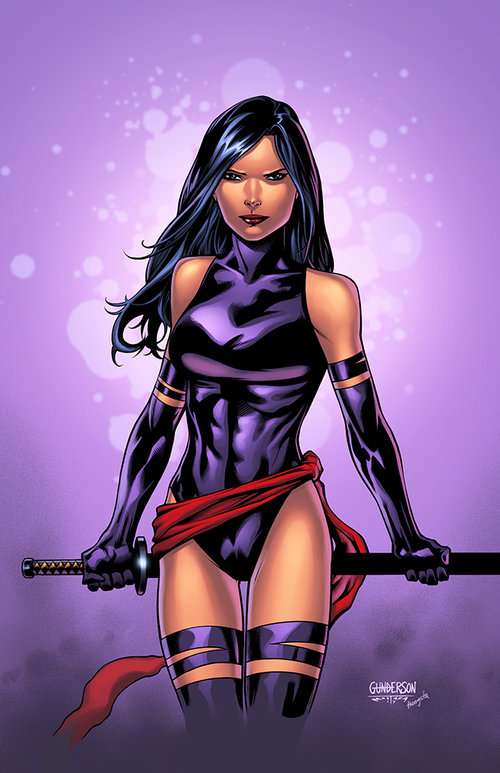
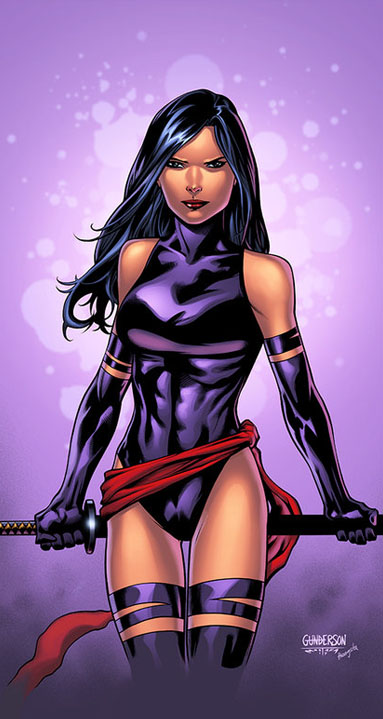
I adjusted the nav and worked more on the cards
I added a class to the navbar so that the nav bar is on top of all my other content in the page, on the Z axis. I photoshopped my photos so that they are all the same size and I adjusted the text in the cards.

diff --git a/Assignments/Assignment2/index.html b/Assignments/Assignment2/index.html
@@ -16,7 +16,7 @@
 
 <body>
     <!-- NAV -->
-    <nav class="navbar navbar-expand-lg navbar-light bg-light" style="position: fixed; width: 100%;">
+    <nav class="navbar navbar-expand-lg navbar-light bg-light fixed-top" style="position: fixed; width: 100%;">
         <a class="navbar-brand" href="#">
             <img src="images/brand.png" class="d-inline-block align-top logo" alt="">
         </a>
@@ -40,7 +40,7 @@
                 <div class="card">
                     <img class="card-img-top" src="images/psylocke1.jpeg" alt="Card image">
                     <div class="card-body">
-                        <p class="card-text">Betsy Braddock was initially a supporting character in the adventures of her twin brother, Captain Britain, even briefly substituting for him in the role, before becoming the mutant superheroine and X-Men member Psylocke in 1986. Originally presented as a precognitive in the pages of Captain Britain and then as a telepath, the character eventually had her mind placed in the body of the Japanese female ninja Kwannon, gaining many of Kwannon's martial arts skills and elements of her personality. Psylocke's codename, coined by the X-Men villains Mojo and Spiral, debuted during her introduction to the X-Men stories post–Captain Britain.[2] Later, Psylocke acquired the power of telekinesis.</p>
+                        <p class="card-text">Betsy Braddock was initially a supporting character in the adventures of her twin brother, Captain Britain, even briefly substituting for him in the role, before becoming the mutant superheroine and X-Men member Psylocke in 1986.</p>
                     </div>
                 </div>
             </div>
@@ -48,7 +48,7 @@
                 <div class="card">
                     <img class="card-img-top" src="images/psylocke2.jpeg" alt="Card image">
                     <div class="card-body">
-                        <p class="card-text">Many alternative versions of the character have also appeared in several comics series of Marvel Multiverse, as well as in various other media and merchandise, notably in numerous video games. The character has been played by Meiling Melançon in the 2006 film X-Men: The Last Stand, and by Olivia Munn in the 2016 film X-Men: Apocalypse.</p>
+                        <p class="card-text">Betsy Braddock was initially a supporting character in the adventures of her twin brother, Captain Britain, even briefly substituting for him in the role, before becoming the mutant superheroine and X-Men member Psylocke in 1986.</p>
                     </div>
                 </div>
             </div>
@@ -56,7 +56,7 @@
                 <div class="card">
                     <img class="card-img-top" src="images/psylocke3.jpeg" alt="Card image">
                     <div class="card-body">
-                            <p class="card-text">Created by writer Chris Claremont, Elizabeth "Betsy" Braddock first appeared in Captain Britain #8 (Dec. 1976), published by the Marvel Comics' British imprint Marvel UK. The original spelling of the character's name was "Elizabeth", though relettering of the UK versions for American reprints would occasionally misspell it as "Elisabeth".[1] This led to spelling inconsistencies throughout future publications. The inconsistency was resolved by Claremont 32 years later in 2008 in the series New Exiles, which reasserted the particular spelling of her name as "Elizabeth".[1] In the Captain Britain series, Claremont introduced her as a supporting character, the sister of Brian Braddock, the eponymous Captain Britain, and established her career as a charter pilot. He also established that she had psychic abilities, the full extent of which were unknown, though no explanation is given for these powers. In Marvel UK's Super Spider-Man and Captain Britain #243 (Oct. 1977), Betsy Braddock is presented as a professional model.</p>
+                            <p class="card-text">Betsy Braddock was initially a supporting character in the adventures of her twin brother, Captain Britain, even briefly substituting for him in the role, before becoming the mutant superheroine and X-Men member Psylocke in 1986..</p>
                     </div>
                 </div>
             </div>
@@ -66,15 +66,15 @@
                 <div class="card">
                     <img class="card-img-top" src="images/psylocke4.jpeg" alt="Card image">
                     <div class="card-body">
-                        <p class="card-text">With the launch of the second volume of X-Men (later rebranded X-Men: Legacy) in 1991, the team splits, with Psylocke joining the team led by Cyclops. In Jim Lee-written issues, the character becomes flirtatious with Cyclops, eventually attempting to seduce him.[8] At this point, Kwannon, a new character with the physical appearance of Braddock prior to the Hand's manipulation, claims to be the original Psylocke, accusing the Japanese-featured Braddock of being an impostor. After Jim Lee and six other creators left Marvel Comics to found Image Comics, new scriptwriter Fabian Nicieza established that Kwannon is the impostor and that Braddock's flirtations with Cyclops were part of a genetic and mental splicing in which the Kwannon impostor was first created.[9]</p>
+                        <p class="card-text">With the launch of the second volume of X-Men (later rebranded X-Men: Legacy) in 1991, the team splits, with Psylocke joining the team led by Cyclops. In Jim Lee-written issues, the character becomes flirtatious with Cyclops, eventually attempting to seduce him.</p>
                     </div>
                 </div>
             </div>
             <div class="col-12 col-lg-4">
                 <div class="card">
-                    <img class="card-img-top" src="images/psylocke5.png" alt="Card image">
+                    <img class="card-img-top" src="images/psylocke5.jpg" alt="Card image">
                     <div class="card-body">
-                        <p class="card-text">In 1994, writer Scott Lobdell set up a relationship between Braddock and her teammate Archangel.[10] The character is severely injured by a crazed Sabretooth in the Lobdell-written Uncanny X-Men #328. Her life is saved by the use of a mystic artifact known as the Crimson Dawn, the aftereffects of which granted Psylocke the ability to teleport in and out of shadows. Lobdell also temporarily took her out of the X-Men roster this issue.[11] Braddock returns to the team in X-Men, vol. 2 #77–78, where she uses her Crimson Dawn-enhanced telepathy to trap the Shadow King in the astral plane. Any use of her telepathy would result in his release, so she forgoes the use of her telepathic ability.[12] Some time later she would develop telekinesis for the first time instead.[13] Psylocke's relationship with Archangel ends in the Claremont written X-Men, vol. 2 #109, where the character embarks upon a relationship with new Indian X-Men recruit Neal Shaara, also known as Thunderbird.</p>
+                        <p class="card-text">With the launch of the second volume of X-Men (later rebranded X-Men: Legacy) in 1991, the team splits, with Psylocke joining the team led by Cyclops. In Jim Lee-written issues, the character becomes flirtatious with Cyclops, eventually attempting to seduce him.</p>
                     </div>
                 </div>
             </div>
@@ -82,7 +82,7 @@
                 <div class="card">
                     <img class="card-img-top" src="images/psylocke6.jpg" alt="Card image">
                     <div class="card-body">
-                        <p class="card-text">In the Claremont-written X-Treme X-Men #2 (2001), the character dies, her comic book death lasting until 2005's Uncanny X-Men #455; Claremont also wrote this issue, later stating he had always intended to revive her.[14][15] Briefly, the character was depicted in Exiles, a spin-off comic-book series in the X-Men franchise, set in an alternate universe. With the cancellation of New Exiles, Psylocke starred in her first solo book, the X-Men: Sword of The Braddocks one-shot.[16][17][18] Afterwards, the character was brought back to the main Marvel Universe in early 2009 within the pages of Uncanny X-Men.[19] Beginning in November 2009, Psylocke was featured in a self-titled four issue miniseries, written by Christopher Yost and drawn by Harvey Tolibao; Matsu'o Tsurayaba and Wolverine are central characters in the story.[20]</p>
+                        <p class="card-text">With the launch of the second volume of X-Men (later rebranded X-Men: Legacy) in 1991, the team splits, with Psylocke joining the team led by Cyclops. In Jim Lee-written issues, the character becomes flirtatious with Cyclops, eventually attempting to seduce him.</p>
                     </div>
                 </div>
             </div>

diff --git a/Class Work/Week 3/index.html b/Class Work/Week 3/index.html
@@ -1,15 +1,88 @@
-<!Doctype html>
-<html>
-<head>
-    <meta charset="UTF-8">
-    <meta http-equiv="X-UA Compatible" content="IE=edge">
-    <title>Index</title>
-    <meta name="viewport" content="width=device-width, initial-scale=1">
-    <link rel="stylesheet" type="text/css" media="screen" href="stylesheet.css" />
-    <script src="https://code.jquery.com/jquery-3.3.1.min.js"></script>
-</head>
-<body>
+<!doctype html>
+<html lang="en">
+  <head>
+    <!-- Required meta tags -->
+    <meta charset="utf-8">
+    <meta name="viewport" content="width=device-width, initial-scale=1, shrink-to-fit=no">
 
+    <!-- Bootstrap CSS -->
+    <link rel="stylesheet" href="https://stackpath.bootstrapcdn.com/bootstrap/4.3.1/css/bootstrap.min.css" integrity="sha384-ggOyR0iXCbMQv3Xipma34MD+dH/1fQ784/j6cY/iJTQUOhcWr7x9JvoRxT2MZw1T" crossorigin="anonymous">
+
+    <!-- My CSS -->
+    <link rel="stylesheet" href="stylesheet.css">
+
+    <title>Week 3</title>
+  </head>
+<body>
+        <div class="container">
+
+                <!-- Three columns of text below the carousel -->
+                <div class="row">
+                  <div class="col-lg-4 text-center text-md-left">
+                    <svg class="bd-placeholder-img rounded-circle mb-1" width="140" height="140" xmlns="http://www.w3.org/2000/svg" preserveAspectRatio="xMidYMid slice" focusable="false" role="img" aria-label="Placeholder: 140x140"><title>Placeholder</title><rect width="100%" height="100%" fill="#777"></rect><text x="50%" y="50%" fill="#777" dy=".3em">140x140</text></svg>
+                    <h2>Heading</h2>
+                    <p class="text-success">Donec sed odio dui. Etiam porta sem malesuada magna mollis euismod. Nullam id dolor id nibh ultricies vehicula ut id elit. Morbi leo risus, porta ac consectetur ac, vestibulum at eros. Praesent commodo cursus magna.</p>
+                    <p><a class="btn btn-secondary bg-primary" href="#" role="button">View details »</a></p>
+                  </div><!-- /.col-lg-4 -->
+                  <div class="col-lg-4 text-center text-md-center">
+                    <img src="https://cdn.newsapi.com.au/image/v1/c4763839b968e520f2ec2ee6e3f9fa50?width=650" class="img-thumbnail w-50 rounded-circle">
+                    <!-- <svg class="bd-placeholder-img rounded-circle" width="140" height="140" xmlns="http://www.w3.org/2000/svg" preserveAspectRatio="xMidYMid slice" focusable="false" role="img" aria-label="Placeholder: 140x140"><title>Placeholder</title><rect width="100%" height="100%" fill="#777"></rect><text x="50%" y="50%" fill="#777" dy=".3em">140x140</text></svg> -->
+                    <h2 class="mt-md-3">Heading</h2>
+                    <p class="text-danger">Duis mollis, est non commodo luctus, nisi erat porttitor ligula, eget lacinia odio sem nec elit. Cras mattis consectetur purus sit amet fermentum. Fusce dapibus, tellus ac cursus commodo, tortor mauris condimentum nibh.</p>
+                    <p><a class="btn btn-secondary bg-danger" href="#" role="button">View details »</a></p>
+                  </div><!-- /.col-lg-4 -->
+                  <div class="col-lg-4 text-center text-md-right">
+                    <svg class="bd-placeholder-img rounded-circle" width="140" height="140" xmlns="http://www.w3.org/2000/svg" preserveAspectRatio="xMidYMid slice" focusable="false" role="img" aria-label="Placeholder: 140x140"><title>Placeholder</title><rect width="100%" height="100%" fill="#777"></rect><text x="50%" y="50%" fill="#777" dy=".3em">140x140</text></svg>
+                    <h2 class="mt-3 mt-lg-5">Heading</h2>
+                    <p class="text-primary">Donec sed odio dui. Cras justo odio, dapibus ac facilisis in, egestas eget quam. Vestibulum id ligula porta felis euismod semper. Fusce dapibus, tellus ac cursus commodo, tortor mauris condimentum nibh, ut fermentum massa justo sit amet risus.</p>
+                    <p><a class="btn btn-secondary" href="#" role="button">View details »</a></p>
+                  </div><!-- /.col-lg-4 -->
+                </div><!-- /.row -->
+            
+            
+                <!-- START THE FEATURETTES -->
+            
+                <hr class="featurette-divider">
+            
+                <div class="row featurette">
+                  <div class="col-md-7">
+                    <h2 class="featurette-heading">First featurette heading. <span class="text-muted">It’ll blow your mind.</span></h2>
+                    <p class="lead">Donec ullamcorper nulla non metus auctor fringilla. Vestibulum id ligula porta felis euismod semper. Praesent commodo cursus magna, vel scelerisque nisl consectetur. Fusce dapibus, tellus ac cursus commodo.</p>
+                  </div>
+                  <div class="col-md-5">
+                    <svg class="bd-placeholder-img bd-placeholder-img-lg featurette-image img-fluid mx-auto" width="500" height="500" xmlns="http://www.w3.org/2000/svg" preserveAspectRatio="xMidYMid slice" focusable="false" role="img" aria-label="Placeholder: 500x500"><title>Placeholder</title><rect width="100%" height="100%" fill="#eee"></rect><text x="50%" y="50%" fill="#aaa" dy=".3em">500x500</text></svg>
+                  </div>
+                </div>
+            
+                <hr class="featurette-divider">
+            
+                <div class="row featurette">
+                  <div class="col-md-7 order-md-2">
+                    <h2 class="featurette-heading">Oh yeah, it’s that good. <span class="text-muted">See for yourself.</span></h2>
+                    <p class="lead">Donec ullamcorper nulla non metus auctor fringilla. Vestibulum id ligula porta felis euismod semper. Praesent commodo cursus magna, vel scelerisque nisl consectetur. Fusce dapibus, tellus ac cursus commodo.</p>
+                  </div>
+                  <div class="col-md-5 order-md-1">
+                    <svg class="bd-placeholder-img bd-placeholder-img-lg featurette-image img-fluid mx-auto" width="500" height="500" xmlns="http://www.w3.org/2000/svg" preserveAspectRatio="xMidYMid slice" focusable="false" role="img" aria-label="Placeholder: 500x500"><title>Placeholder</title><rect width="100%" height="100%" fill="#eee"></rect><text x="50%" y="50%" fill="#aaa" dy=".3em">500x500</text></svg>
+                  </div>
+                </div>
+            
+                <hr class="featurette-divider">
+            
+                <div class="row featurette">
+                  <div class="col-md-7">
+                    <h2 class="featurette-heading">And lastly, this one. <span class="text-muted">Checkmate.</span></h2>
+                    <p class="lead">Donec ullamcorper nulla non metus auctor fringilla. Vestibulum id ligula porta felis euismod semper. Praesent commodo cursus magna, vel scelerisque nisl consectetur. Fusce dapibus, tellus ac cursus commodo.</p>
+                  </div>
+                  <div class="col-md-5">
+                    <svg class="bd-placeholder-img bd-placeholder-img-lg featurette-image img-fluid mx-auto" width="500" height="500" xmlns="http://www.w3.org/2000/svg" preserveAspectRatio="xMidYMid slice" focusable="false" role="img" aria-label="Placeholder: 500x500"><title>Placeholder</title><rect width="100%" height="100%" fill="#eee"></rect><text x="50%" y="50%" fill="#aaa" dy=".3em">500x500</text></svg>
+                  </div>
+                </div>
+            
+                <hr class="featurette-divider">
+            
+                <!-- /END THE FEATURETTES -->
+            
+              </div>
 
 
 

diff --git a/Assignments/Assignment2/stylesheet.css b/Assignments/Assignment2/stylesheet.css
@@ -2,6 +2,7 @@ body{
     background-color: #3f0478;
 }
 .navbar {
+
     height: 100px;
 }
 .bg-light {
@@ -73,10 +74,6 @@ p {
         padding-top: 10px;
         padding-bottom: 10px;
     }
-    /* .card-body {
-        width: 100px;
-        height: 50px;
-    } */
     p {
         font-size: 22px;
     }
@@ -97,13 +94,20 @@ p {
         width: 120px;
         margin-top: -5px;
     }
+    /* .card-img-top {
+        min-height: 430px;
+        padding: 0px;
+    } */
+    /* .card-text {
+        max-height: 200px;
+        text
+    } */
     img {
         width: 50%;
         height: auto;
         padding-top: 10px;
         padding-bottom: 10px;
     }
-
     p {
         font-size: 15px;
     }
